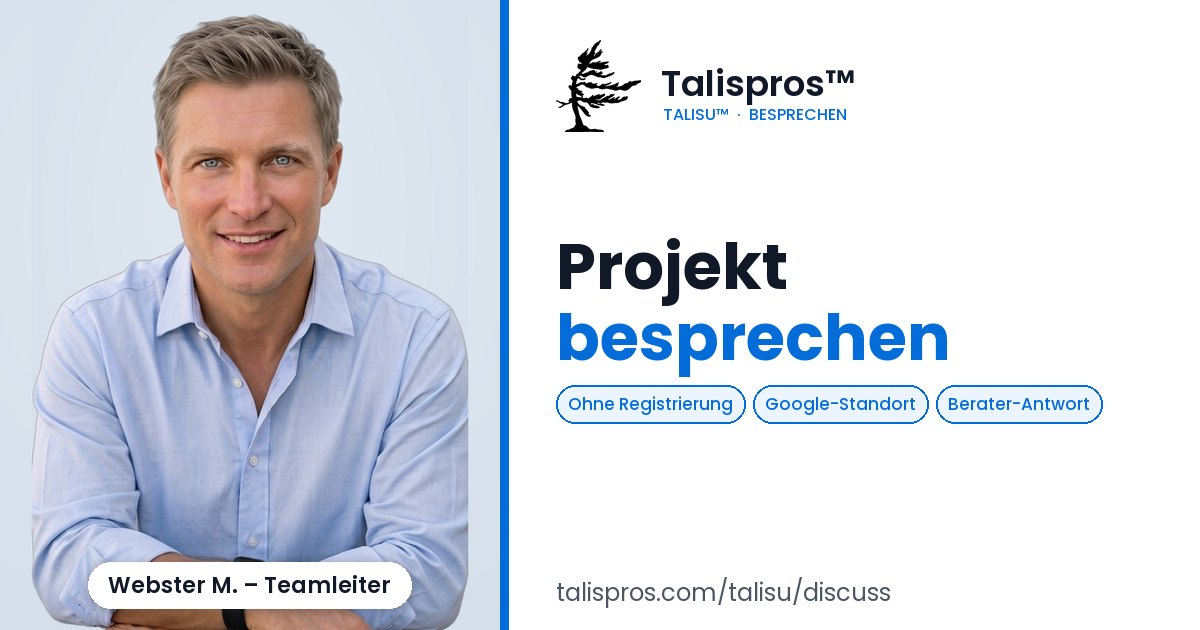
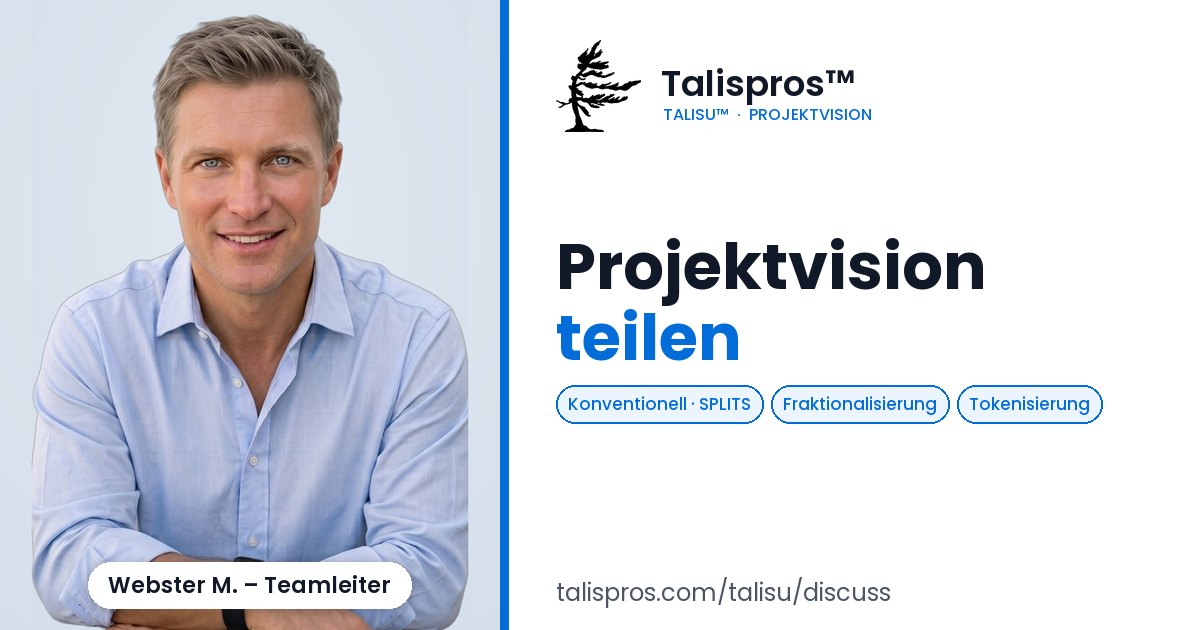
SEO/OG: /talisu/discuss is now "Share a Project Vision" (EN/DE 1200×630 cards)

diff --git a/scripts/og/pages_src.py b/scripts/og/pages_src.py
@@ -88,12 +88,12 @@ add("/talisu/contract", "talisu-contract", "utility", BRAND,
      "Öffnen Sie den TalisALL PMC Dienstleistungsvertrag mit Ihrem Agenten-Code, unterschreiben Sie elektronisch und fahren Sie mit der Registrierung fort.",
      "TALISPROS  ·  VERTRAG", ["Ihren", "Dienstleistungs-", "vertrag signieren"], ["Agenten-Code", "E-Signatur", "Dann registrieren"]))
 add("/talisu/discuss", "talisu-discuss", "public", WEBSTER,
-    ("Discuss a Project Without Registering | TalisU™",
-     "Discuss your Conventional, SPLITS, Fractionalization or Tokenization project with a Talispros™ advisor. No registration or FAST Code needed.",
-     "TALISU™  ·  DISCUSS", ["Discuss a", "Project"], ["No registration", "Google location", "Advisor reply"]),
-    ("Projekt besprechen ohne Registrierung | TalisU™",
-     "Besprechen Sie Ihr Projekt (Konventionell, SPLITS, Fraktionalisierung, Tokenisierung) mit einem Talispros™-Berater. Ohne Registrierung.",
-     "TALISU™  ·  BESPRECHEN", ["Projekt", "besprechen"], ["Ohne Registrierung", "Google-Standort", "Berater-Antwort"]))
+    ("Share a Project Vision | TalisU™",
+     "Explore Conventional, SPLITS, Fractionalization and Tokenization structures and share your project vision with an advisor. No registration needed.",
+     "TALISU™  ·  PROJECT VISION", ["Share a", "Project Vision"], ["Conventional · SPLITS", "Fractionalization", "Tokenization"]),
+    ("Projektvision teilen | TalisU™",
+     "Entdecken Sie Konventionell, SPLITS, Fraktionalisierung und Tokenisierung und teilen Sie Ihre Projektvision mit einem Berater. Ohne Registrierung.",
+     "TALISU™  ·  PROJEKTVISION", ["Projektvision", "teilen"], ["Konventionell · SPLITS", "Fraktionalisierung", "Tokenisierung"]))
 add("/talisu/terms", "talisu-terms", "public", BRAND,
     ("Terms of Service | Talispros by TalisALL PMC",
      "Talispros Terms of Service: platform role, customer responsibilities, warranties, liability, fees in CAD, intellectual property, termination and privacy.",
